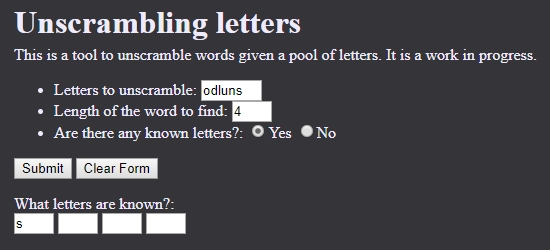
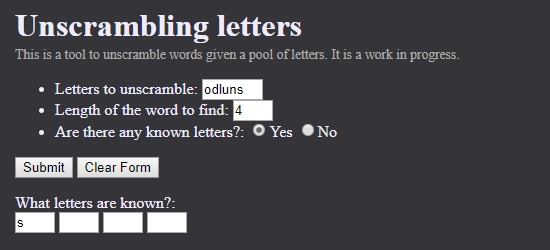
Cosmetic tweak + screenshot update to reflect change

diff --git a/templates/index.html b/templates/index.html
@@ -7,7 +7,7 @@
 
 	<h1>Unscrambling letters</h1>
 
-	<p>This is a tool to unscramble words given a pool of letters.  It is a work in progress.</p>
+	<p id="note">This is a tool to unscramble words given a pool of letters.  It is a work in progress.</p>
 
 	<p>
 		<form action = "/search" method="get">
